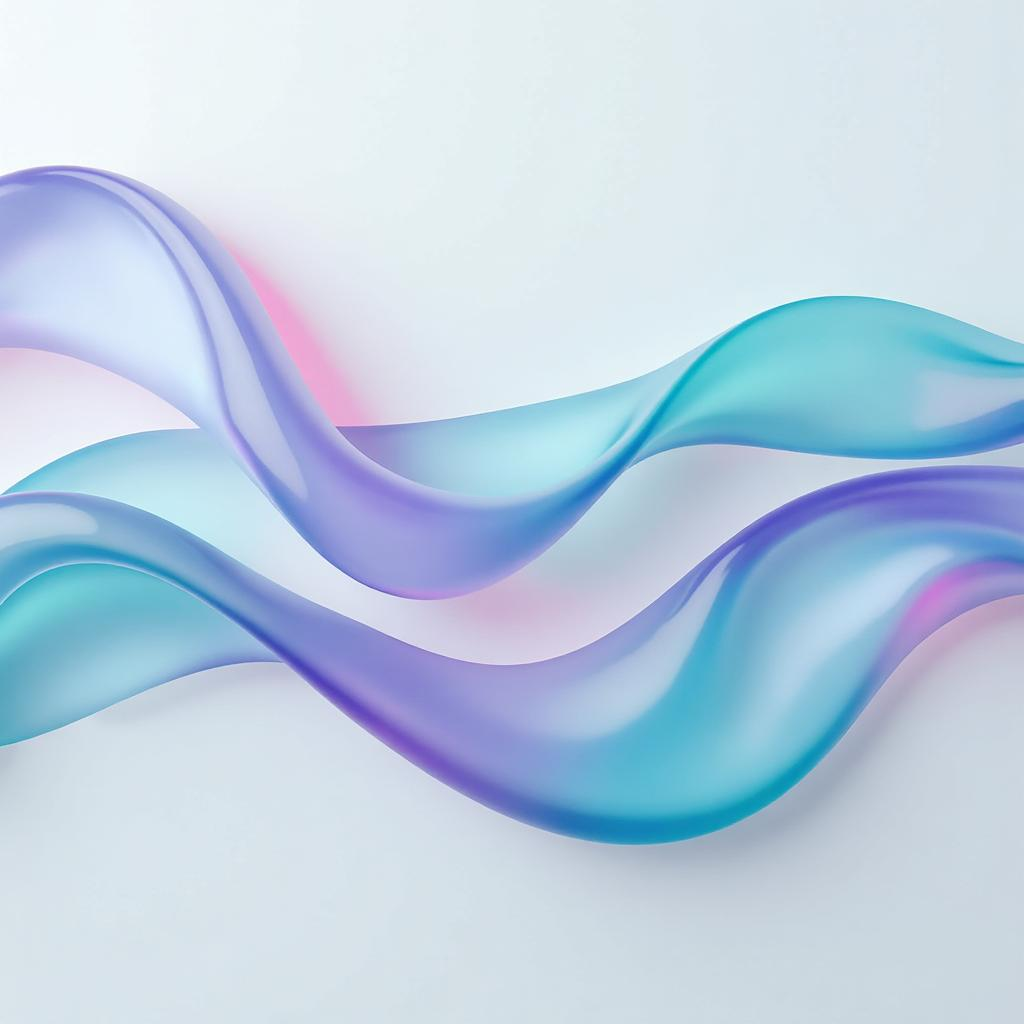
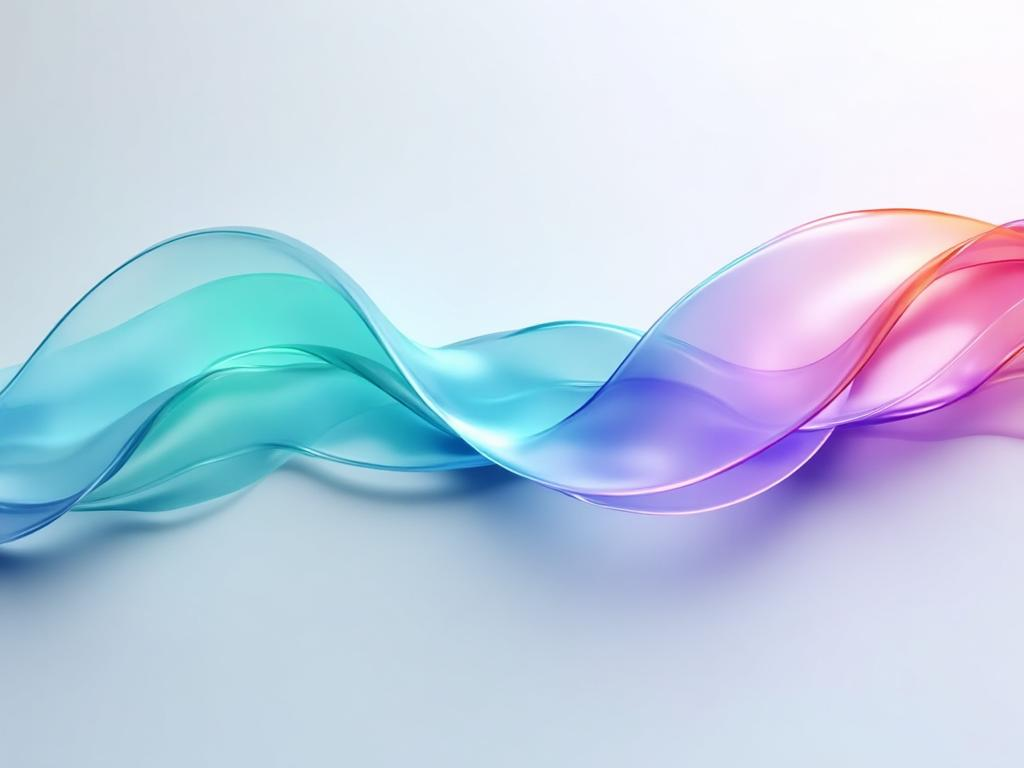
Changes

diff --git a/src/pages/Index.tsx b/src/pages/Index.tsx
@@ -259,10 +259,10 @@ const Index = () => {
       {/* CTA Section */}
       {/* Vision Section */}
       <section className="container mx-auto px-4 py-20">
-        <div className="max-w-7xl mx-auto bg-vision-bg rounded-2xl p-12 md:p-16">
-          <div className="grid md:grid-cols-2 gap-12 lg:gap-16 items-center">
+        <div className="max-w-7xl mx-auto bg-vision-bg rounded-2xl overflow-hidden">
+          <div className="grid md:grid-cols-2 items-center">
             {/* Left: Text content */}
-            <div className="text-center md:text-left md:pl-6 lg:pl-10">
+            <div className="text-center md:text-left p-12 md:p-16">
               <div className="inline-flex items-center gap-2 px-4 py-2 bg-primary/10 border border-primary/20 rounded-full mb-6">
                 <Sparkles className="h-4 w-4 text-primary" />
                 <span className="text-sm text-primary font-medium">我们的愿景</span>
@@ -277,11 +277,11 @@ const Index = () => {
             </div>
             
             {/* Right: Image */}
-            <div className="flex justify-center md:justify-end md:pr-6 lg:pr-10">
+            <div className="flex justify-end h-full">
               <img 
                 src={visionIllustration} 
                 alt="抽象流动丝带装饰图" 
-                className="w-full max-w-lg lg:max-w-xl rounded-2xl object-cover"
+                className="h-full w-full object-cover object-left"
               />
             </div>
           </div>
